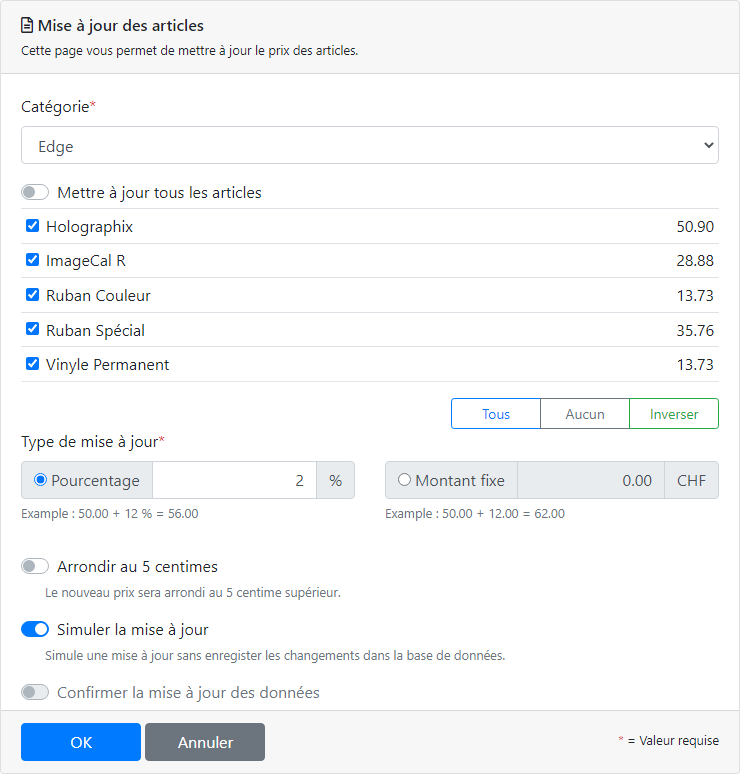
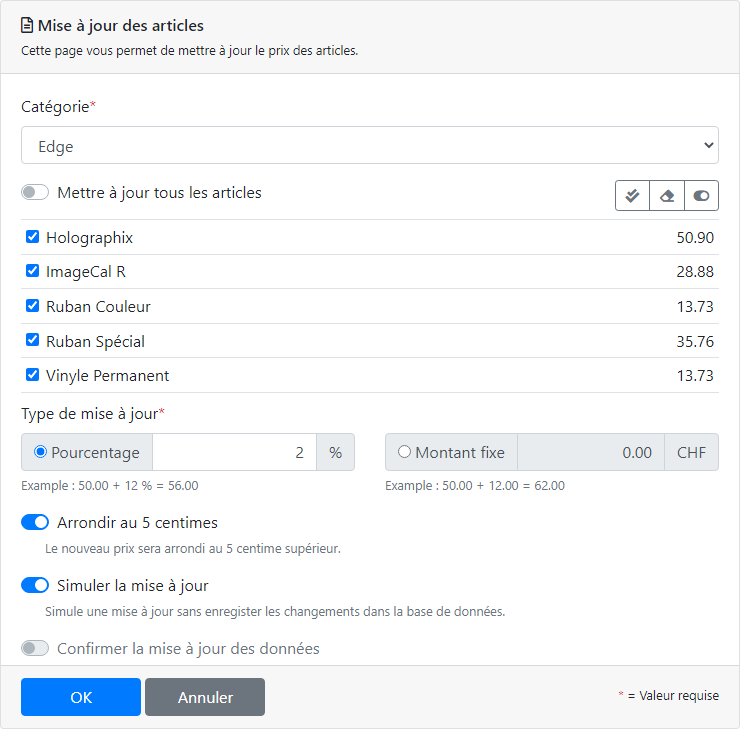
Reworked products update template.

diff --git a/public/js/application/product_update.js b/public/js/application/product_update.js
@@ -12,16 +12,6 @@ function getVisibleProducts() {
 }
 
 /**
- * Retuns if the error message for products is displayed.
- *
- * @returns {boolean} - true if displayed.
- */
-function isProductsError() {
-    'use strict';
-    return $('#products-error').is(":visible");
-}
-
-/**
  * Returns a value indicating if all products checkbox is checked.
  *
  * @returns {boolean} - true if checked.
@@ -34,26 +24,25 @@ function isAllProducts() {
 /**
  * Validate the products selection.
  *
- * @param {boolean}
- *            focus - true to set focus to the first product if not valid.
  * @returns {boolean} - true if valid.
  */
-function validateProducts(focus) {
+function validateProducts() {
     'use strict';
-    if (isAllProducts()) {
-        $('#products-error').hide();
-        return true;
+    const validator = $('#edit-form').validate();
+    return validator.element("#form_all_products");
+}
+
+/**
+ * Check if products selection is requiered.
+ *
+ * @returns {boolean} true if requiered; false if not.
+ */
+function isProductsRequired() {
+    'use strict';
+    if (isAllProducts() || getVisibleProducts().filter(':checked').length > 0) {
+        return false;
     }
-    const $products = getVisibleProducts();
-    if ($products.filter(':checked').length > 0) {
-        $('#products-error').hide();
-        return true;
-    }
-    if (focus) {
-        $products.first().focus();
-    }
-    $('#products-error').show();
-    return false;
+    return true;
 }
 
 /**
@@ -62,11 +51,38 @@ function validateProducts(focus) {
 (function ($) {
     'use strict';
 
+    // get widgets
     const $type = $('#form_type');
     const $fixed = $('#form_fixed');
     const $percent = $('#form_percent');
     const $category = $('#form_category');
 
+    // validation
+    $('#edit-form').initValidator({
+        rules: {
+            'form[percent]': {
+                notEqualToZero: true
+            },
+            'form[fixed]': {
+                notEqualToZero: true
+            },
+            'form[all_products]': {
+                required: isProductsRequired
+            }
+        },
+        submitHandler: function (form) {
+            if (isAllProducts()) {
+                $('#form_products :checkbox').setChecked(false);
+            } else {
+                const id = $category.val();
+                $('#form_products :checkbox[category!="' + id + '"]').setChecked(false);
+            }
+            $(form).showSpinner();
+            form.submit();
+        }
+    });
+
+    // handle events
     $('#form_type_percent, #form_type_fixed').on('click', function () {
         const isPercent = $('#form_type_percent').isChecked();
         $fixed.toggleDisabled(isPercent);
@@ -90,20 +106,13 @@ function validateProducts(focus) {
 
     $category.on('input', function () {
         const id = $(this).val();
-
-        // toggle visibility
         $('#form_products tbody tr[category="' + id + '"]').removeClass('d-none');
         $('#form_products tbody tr[category!="' + id + '"]').addClass('d-none');
-
-        // check all if none
         const $products = getVisibleProducts();
         if ($products.find(':checked').length === 0) {
             $products.setChecked(true);
         }
-
-        if (isProductsError()) {
-            validateProducts(false);
-        }
+        validateProducts();
     });
     $category.trigger('input');
 
@@ -111,63 +120,34 @@ function validateProducts(focus) {
         const $checkbox = $(this).find(':checkbox');
         if (!isAllProducts() && !$checkbox.is(':hover')) {
             $checkbox.toggleChecked();
-            if (isProductsError()) {
-                validateProducts(false);
-            }
+            validateProducts();
         }
     });
 
     $('#form_products :checkbox').on('click', function () {
-        if (isProductsError() && $(this).isChecked()) {
-            validateProducts(false);
-        }
+        validateProducts();
     });
 
     $('#form_all_products').on('click', function () {
         const disabled = $(this).isChecked();
-        $('#form_products').toggleClass('text-secondary', disabled);
-        $('.btn-all, .btn-none, .btn-reverse, #form_products :checkbox').toggleDisabled(disabled);
-        if (isProductsError()) {
-            validateProducts(false);
-        }
-    });
-    $('.btn-all').on('click', function () {
-        getVisibleProducts().setChecked(true);
-        if (isProductsError()) {
-            validateProducts(false);
-        }
-    });
-    $('.btn-none').on('click', function () {
-        getVisibleProducts().setChecked(false);
-    });
-    $('.btn-reverse').on('click', function () {
-        getVisibleProducts().toggleChecked();
-        if (isProductsError()) {
-            validateProducts(false);
-        }
+        $('#form_products tr').toggleClass('text-secondary', disabled);
+        $('#btn-all, #btn-none, #btn-reverse, #form_products :checkbox').toggleDisabled(disabled);
+        validateProducts();
     });
 
-    // validation
-    $('#edit-form').initValidator({
-        rules: {
-            'form[percent]': {
-                notEqualToZero: true
-            },
-            'form[fixed]': {
-                notEqualToZero: true
-            }
-        },
-        submitHandler: function (form) {
-            if (!validateProducts(true)) {
-                return;
-            }
-            if (isAllProducts()) {
-                $('#form_products :checkbox').setChecked(false);
-            } else {
-                const id = $category.val();
-                $('#form_products :checkbox[category!="' + id + '"]').setChecked(false);
-            }
-            form.submit();
-        }
+    $('#btn-all').on('click', function () {
+        getVisibleProducts().setChecked(true);
+        validateProducts();
     });
+
+    $('#btn-none').on('click', function () {
+        getVisibleProducts().setChecked(false);
+        validateProducts();
+    });
+
+    $('#btn-reverse').on('click', function () {
+        getVisibleProducts().toggleChecked();
+        validateProducts();
+    });
+
 }(jQuery));

diff --git a/public/js/extensions/validator-extensions.js b/public/js/extensions/validator-extensions.js
@@ -238,16 +238,13 @@
                             $toUpdate.removeClass('field-invalid').addClass('field-valid');
                         }
                     }
-                }
+                },
+
             };
 
-            // add spinner on submit
             if (!options.submitHandler) {
                 defaults.submitHandler = function (form) {
-                    const $form = $(form);
-                    const spinner = '<span class="spinner-border spinner-border-sm"></span>';
-                    $form.find(':submit').toggleDisabled(true).html(spinner);
-                    $form.find('.btn-cancel').toggleDisabled(true);
+                    $(form).showSpinner();
                     form.submit();
                 };
             }
@@ -339,6 +336,16 @@
             $that[0].reset();
             $that.find('.is-invalid').removeClass('is-invalid');
             return $that;
+        },
+
+        /**
+         * Show a spinner when form is submitted.
+         */
+        showSpinner: function() {
+            const $this = $(this);
+            const spinner = '<span class="spinner-border spinner-border-sm"></span>';
+            $this.find(':submit').toggleDisabled(true).html(spinner);
+            $this.find('.btn-cancel').toggleDisabled(true);
         }
     });
 

diff --git a/src/Service/ProductUpdater.php b/src/Service/ProductUpdater.php
@@ -100,7 +100,8 @@ class ProductUpdater
 
         $helper->field('all_products')
             ->notRequired()
-            ->rowClass('mb-1')
+            ->rowClass('mb-0')
+            ->updateAttribute('data-error', $this->trans('product.update.products_error'))
             ->addCheckboxType();
 
         $helper->field('products')
